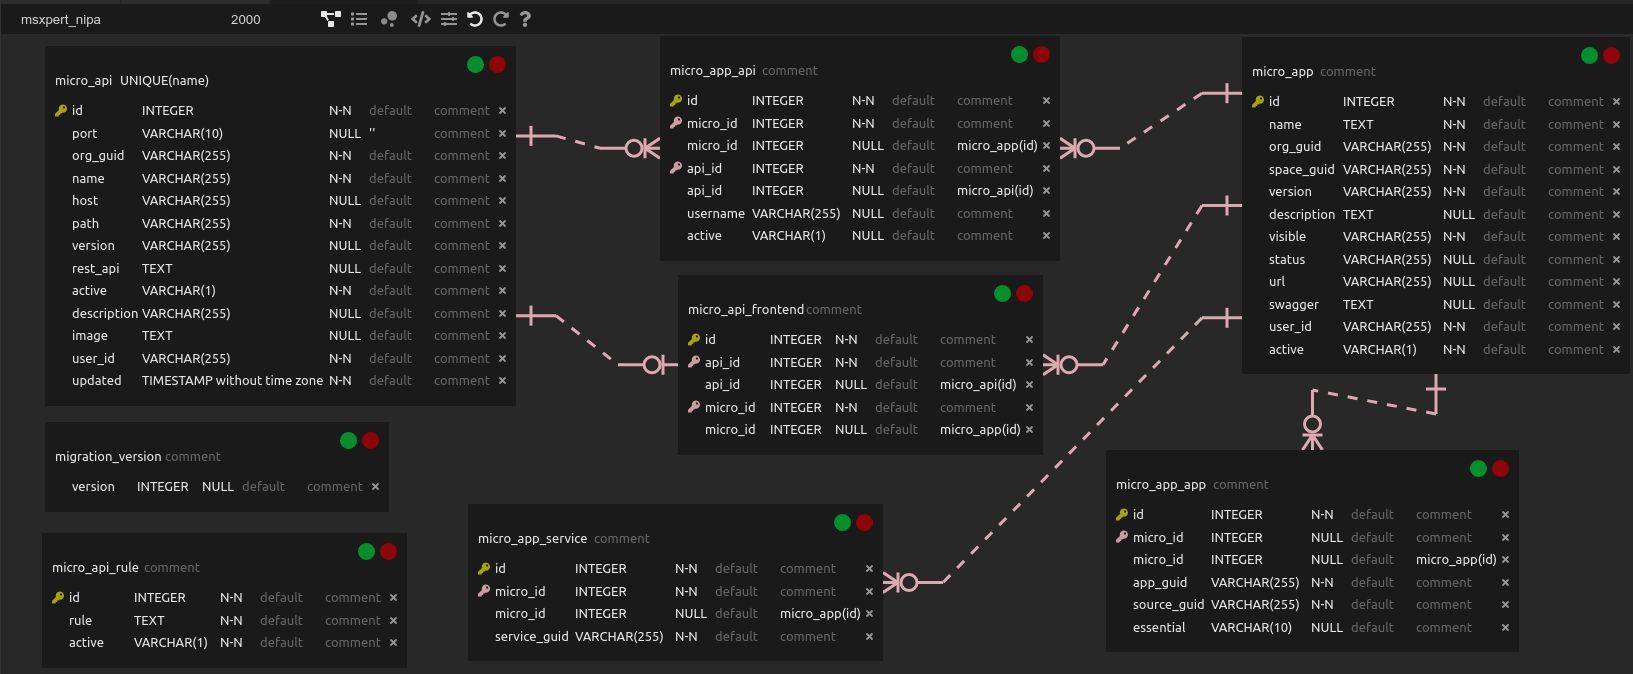
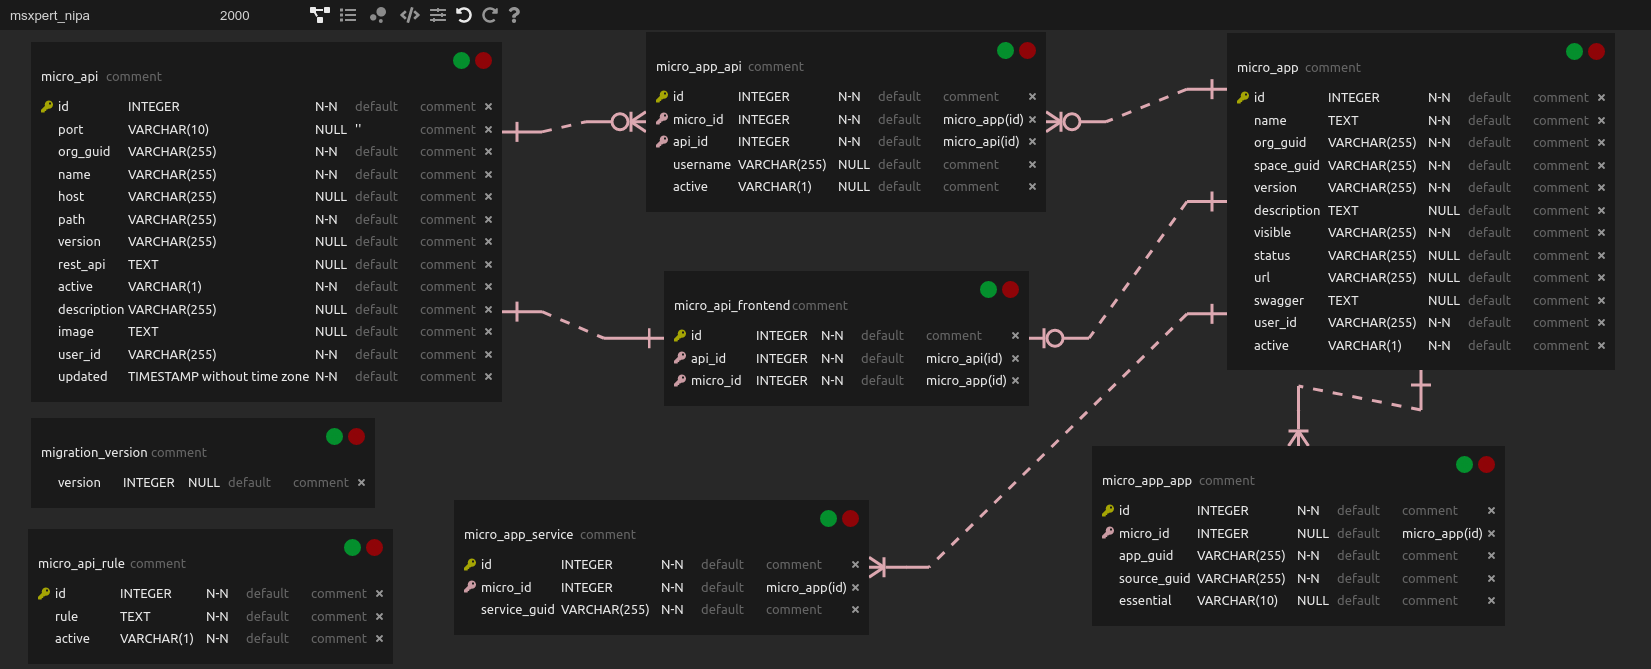
database_erd change

diff --git a/Technical_Report.md b/Technical_Report.md
@@ -14,7 +14,7 @@
 
 ### MsXpert 설치
 
-#### [1.](https://github.com/startupcloudplatform/cloud4dev-docs/blob/master/Technical_Report.md) IaaS 구성
+#### [1.](https://github.com/startupcloudplatform/cloud4dev-docs/blob/master/Technical_Report.md#목차) IaaS 구성
 
 ##### 1-1 .  리소스 그룹 생성
  ![](./technicalReportImages/Azure_resouceGroup_Create.png)
@@ -70,7 +70,7 @@
    ![](./technicalReportImages/Azure_vm_create.png)
  
 
-#### [2.](https://github.com/startupcloudplatform/cloud4dev-docs/blob/master/Technical_Report.md) Bosh 설치
+#### [2.](https://github.com/startupcloudplatform/cloud4dev-docs/blob/master/Technical_Report.md#목차) Bosh 설치
 ##### 2-1 . bosh-cli 설치
   ```shell
     # 다운 받은 바이너리 파일을 /usr/local/bin폴더 아래에 위치시키는 것으로 설치 완료
@@ -130,7 +130,7 @@
       $ bosh -e bosh login
   ```
 
-#### [3.](https://github.com/startupcloudplatform/cloud4dev-docs/blob/master/Technical_Report.md) CloudFoundry 설치
+#### [3.](https://github.com/startupcloudplatform/cloud4dev-docs/blob/master/Technical_Report.md#목차) CloudFoundry 설치
  ##### 3-1. Upload a Cloud-Config
   ```shell
       $ bosh -e [target 설정시 지정한 이름] ucc iaas-support/azure/cloud-config.yml
@@ -158,7 +158,7 @@
         -o cf-deployment/operations/use-haproxy-public-network.yml
   ``` 
 
-#### [4.](https://github.com/startupcloudplatform/cloud4dev-docs/blob/master/Technical_Report.md) MsXpert 설치
+#### [4.](https://github.com/startupcloudplatform/cloud4dev-docs/blob/master/Technical_Report.md#목차) MsXpert 설치
  ##### 4-1. angular/cli 설치
   ```shell
       $ curl -sL https://deb.nodesource.com/setup_8.x | sudo -E bash -
@@ -605,7 +605,7 @@
 
 ### MsXpert 운영 
 
-#### [1.](https://github.com/startupcloudplatform/cloud4dev-docs/blob/master/Technical_Report.md)  Trouble Shooting
+#### [1.](https://github.com/startupcloudplatform/cloud4dev-docs/blob/master/Technical_Report.md#목차)  Trouble Shooting
 
  ##### 1-1. MsXpert 의 DB에 접근하기
   ```shell
@@ -775,7 +775,24 @@
 
 ### MsXpert Reference
 
-#### [1.](https://github.com/startupcloudplatform/cloud4dev-docs/blob/master/Technical_Report.md) Database 구조
+#### [1.](https://github.com/startupcloudplatform/cloud4dev-docs/blob/master/Technical_Report.md#목차) Database 구조
 
    ![](./technicalReportImages/database-erd.png)
+   ```
+      - micro_api: MsXpert에 공개되어 있는 API
+
+      - micro_app_api: 각각의 마이크로서비스에서 사용하고 있는 micro_api
+
+      - micro_api_frontend: micro_app과 micro_api의 관계 확인 가능, 마이크로서비스 API 생성시 Update
+
+      - micro_app_service: 각각의 마이크로서비스에서 사용하고 있는 cf상의 service (config-service, registry-service)
+
+      - micro_app_app: 각각의 마이크로서비스를 구성하고 있는 cf상의 application
+
+      - micro_app: MsXpert에서 생성한 마이크로서비스
+
+      - micro_api_rule: traefik서버에서 저장하고 있는 micro_api들의 정보, micro_app_api에 관한 내용도 확인 가능
+
+      - migration_version: Database-migration 정보,  Database Connection 생성시 사용
+   ```
 
